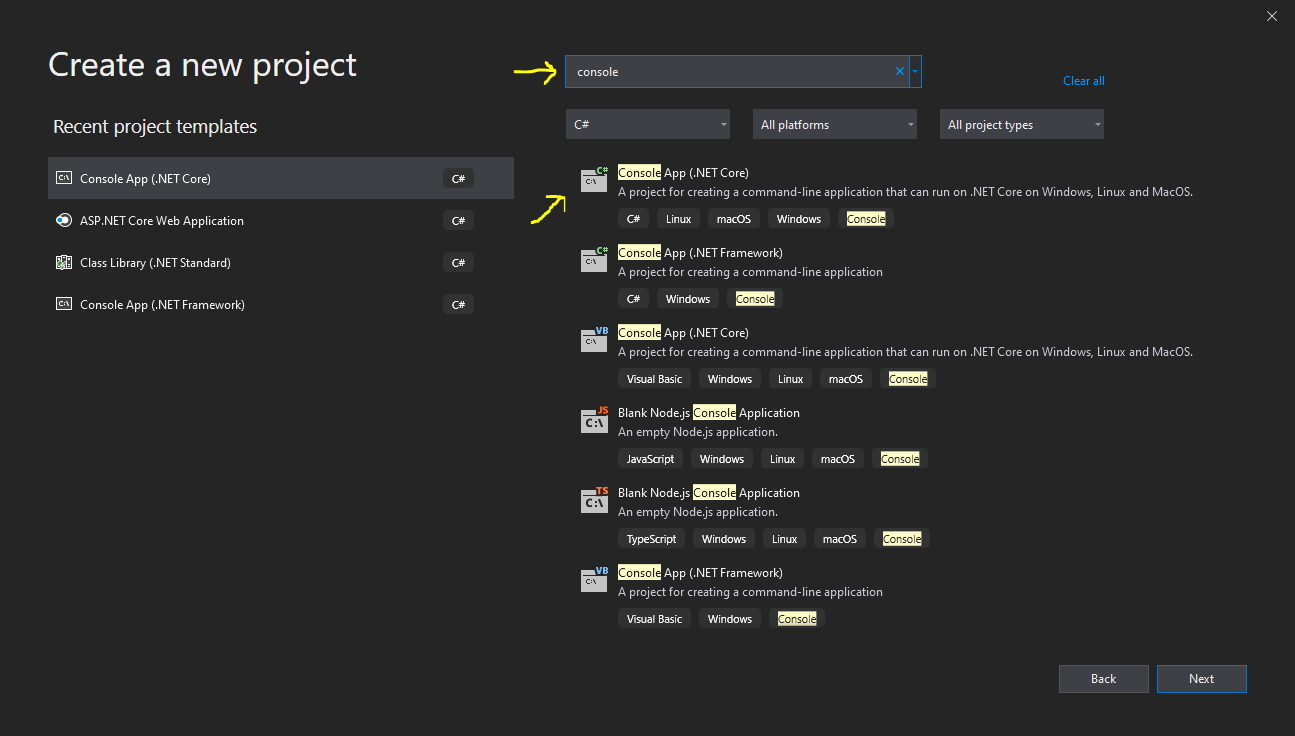
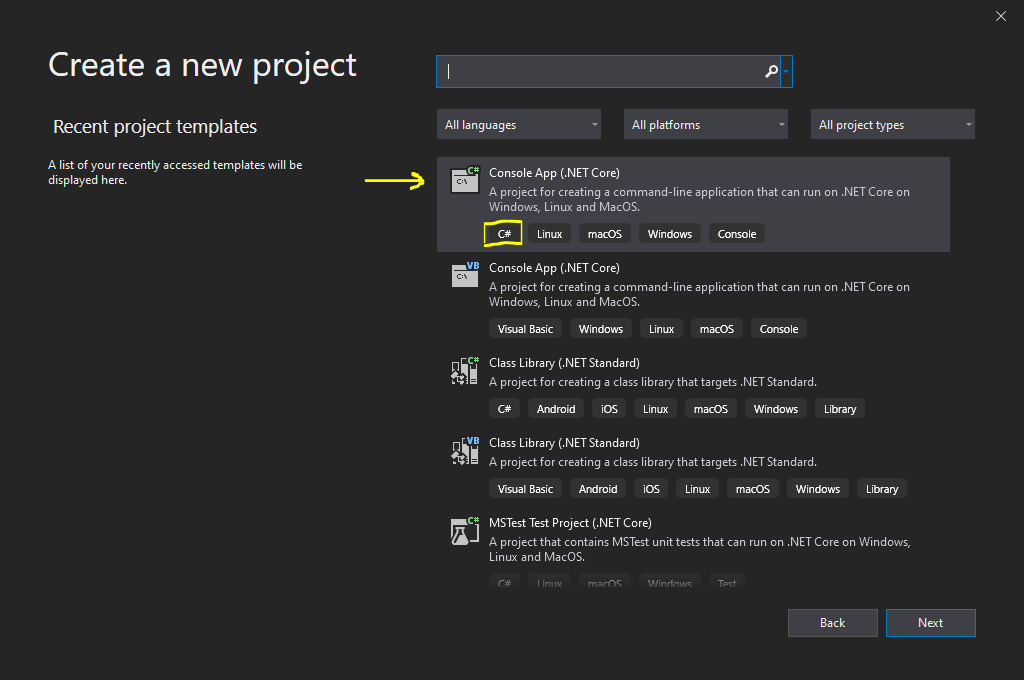
Readme geupdate met creeeren project

diff --git a/README.md b/README.md
@@ -72,4 +72,21 @@ Laten we nu maar eens echt beginnen met programeren. Voor de eerste stappen hebb
 
 # Applicatie 1: Hallo Wereld
 
+Laten we gaan beginnen met 'Hallo wereld'. Dit is een kleine applicatie die deze tekst laat zien wanneer je het opstart. Ook gaan we nog wat aanpassingen doen zodat de applicatie weet wie jij bent en dat hij jou (of iemand anders) ook gedag kan zeggen.
+
+1. Start Visual Studio op door in het start-menu van Windows te zoeken naar _Visual Studio_ en dan op Enter te drukken  
+![Visual Studio in start menu](Resources/01-VisualStudio_Startmenu.PNG)
+
+2. Maak een nieuwe applicatie aan door te kiezen voor 'Create a new Project'  
+![Create new project](Resources/02-NieuwProject.PNG)
+
+3. In het venster wat er nu staat kies je voor 'Console App (.NET Core)' en klik je op de knop 'Next'   
+_Let op dat je voor degenen kiest waar ook C# bij staat_
+![Create Console app](Resources/03-ConsoleApplicatie.PNG)
+
+4. Nu moet je de naam in vullen voor je project en ook waar je het project wilt opslaan.  
+    - Geef je project de naam 'HalloWereld'.
+    - En kies voor de juiste locatie door op het knopje te drukken en dan de map op te zoeken waar de bestanden moeten komen te staan. In ons geval is dat _C:\Leren-Programmeren_  
+![Project naam kiezen](Resources/04-ProjectNaam.PNG)  
+    - Als alles goed staat zoals op het plaatje, klik dan op 'Create'
 
